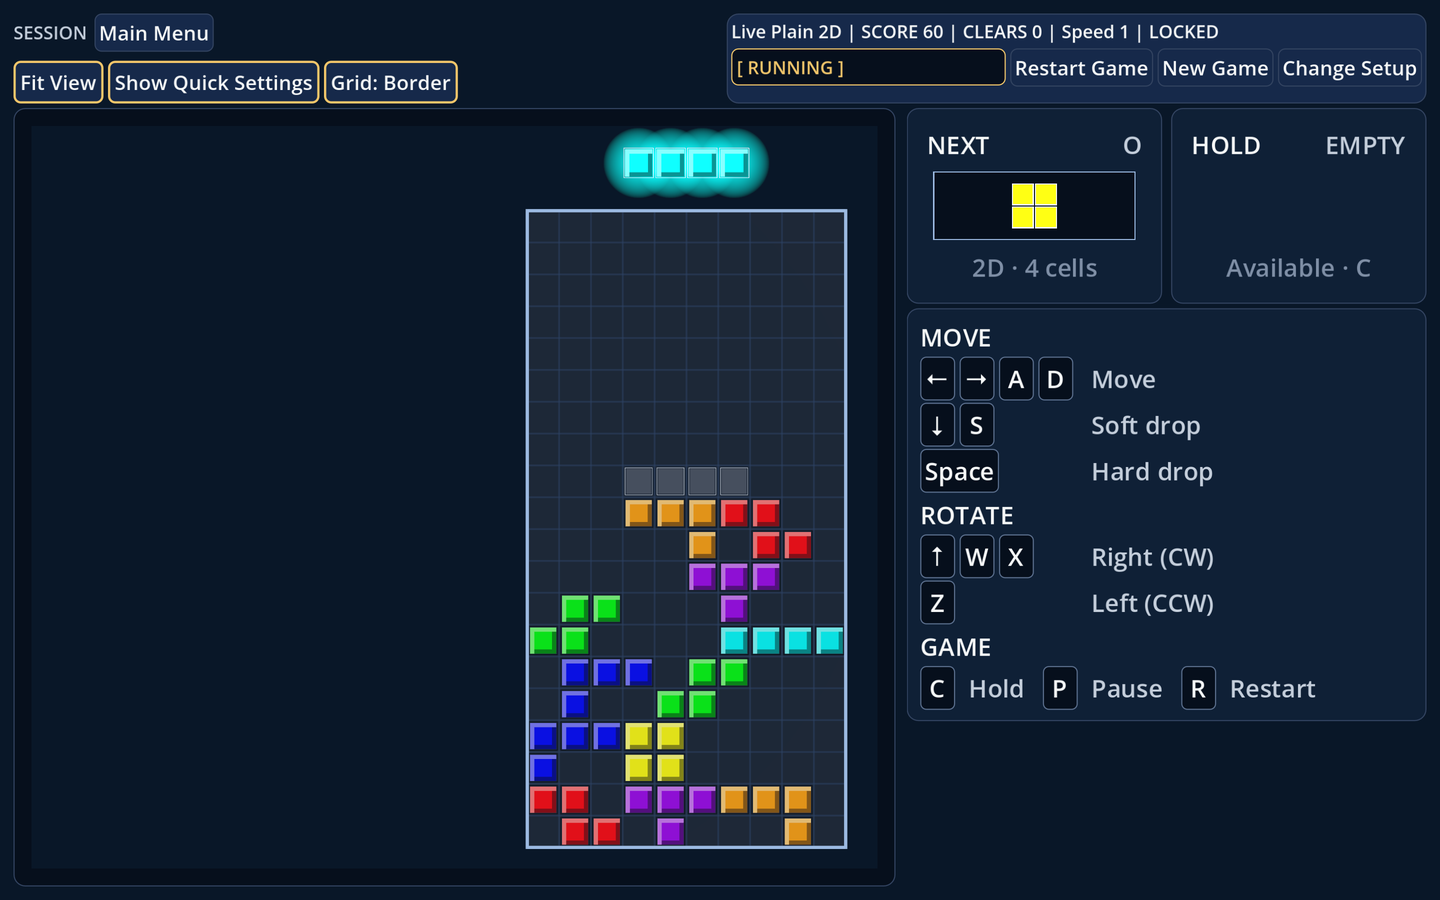
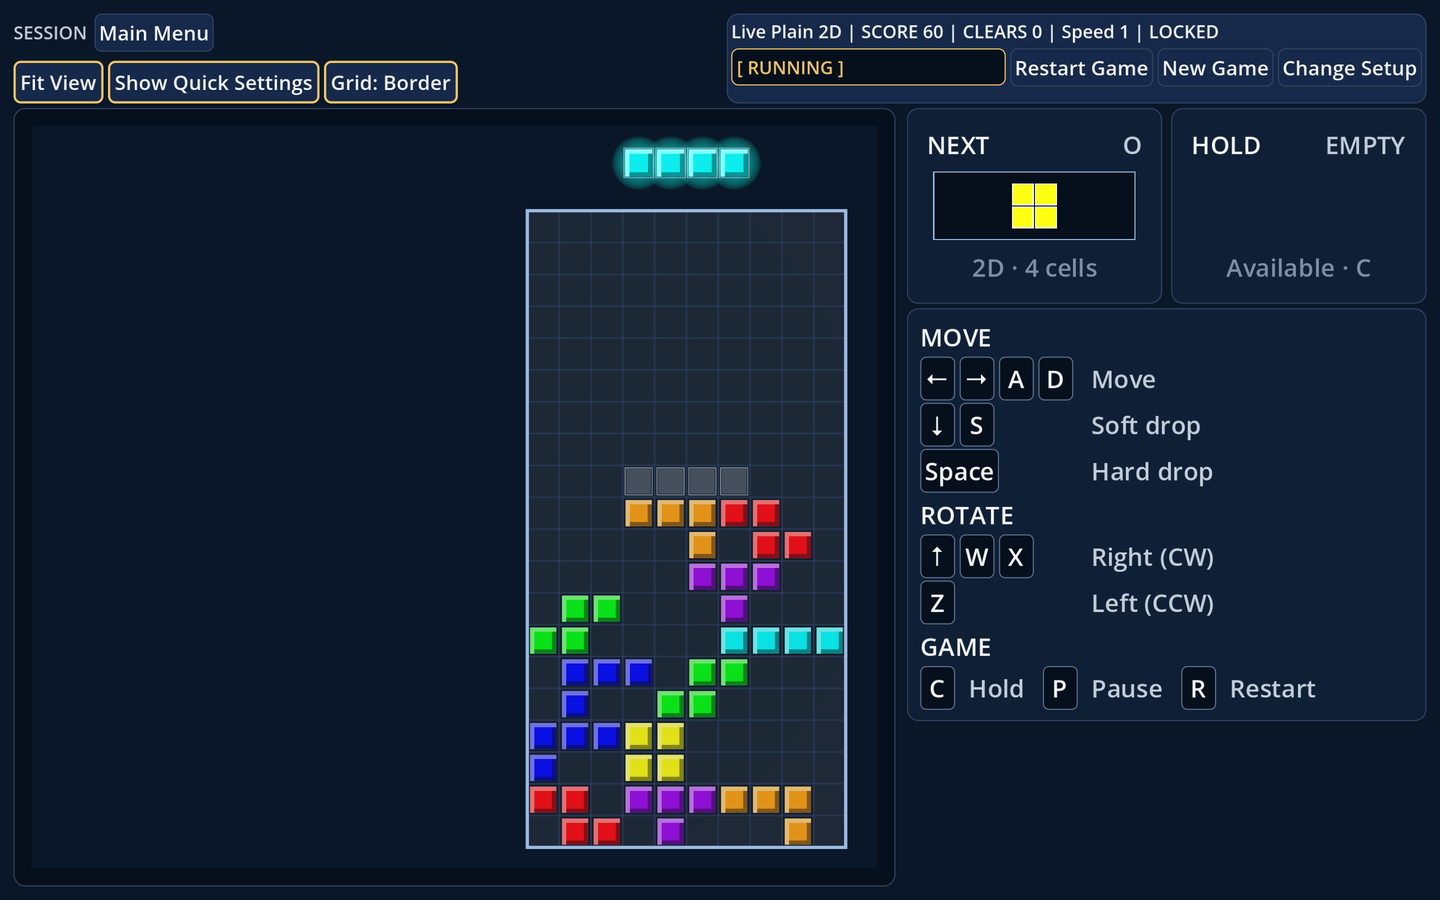
refactor(godot): move luminous shell skin values to config (P2)
The shell skin radii (keycap, control, panel, emphasis) and border lift
move from ShellDesignTokens constants to luminous.shell in
config/graphical_language.json, read through GraphicalLanguageConfig.
The visual_tuning contract now lists the style applier and token file as
consumers, so LUMINOUS_ numeric constants cannot return to either.
Rendering is pixel-identical to fdb248f1 in Live 2D/3D/4D; layout and
typography locks pass unchanged. P2 captures refreshed with the reduced
glow and the d9bfd8bf edge draw order.

Changed region(s): [[0.4062, 0.1244, 0.5312, 0.2178]]

diff --git a/docs/CONFIGURATION_REFERENCE.md b/docs/CONFIGURATION_REFERENCE.md
@@ -2310,10 +2310,10 @@ Parameters:
 - `governance.godot_settings_externalization_contract.statement`: `"Every Godot presentation parameter, its default, exactly-one semanti...` (`string`)
 - `governance.godot_settings_externalization_contract.store_path`: `"godot/Tet4D.Godot/scripts/ui/settings/settings_store.gd"` (`string`)
 - `governance.godot_settings_externalization_contract.visual_tuning.config_path`: `"godot/Tet4D.Godot/config/graphical_language.json"` (`string`)
-- `governance.godot_settings_externalization_contract.visual_tuning.consumer_paths[]`: array[`string`]; examples: `"godot/Tet4D.Godot/scripts/ui/replay_visuals.gd"`, `"godot/Tet4D.Godot/scripts/rendering/cell_renderer.gd"`
+- `governance.godot_settings_externalization_contract.visual_tuning.consumer_paths[]`: array[`string`]; examples: `"godot/Tet4D.Godot/scripts/ui/replay_visuals.gd"`, `"godot/Tet4D.Godot/scripts/rendering/cell_renderer.gd"`, `"godot/Tet4D.Godot/scripts/ui/style/shell_control_style_applier.gd"`
 - `governance.godot_settings_externalization_contract.visual_tuning.forbidden_constant_prefixes[]`: array[`string`]; examples: `"LUMINOUS_"`
 - `governance.godot_settings_externalization_contract.visual_tuning.loader_path`: `"godot/Tet4D.Godot/scripts/ui/style/graphical_language_config.gd"` (`string`)
-- `governance.godot_settings_externalization_contract.visual_tuning.loading_consumer_paths[]`: array[`string`]; examples: `"godot/Tet4D.Godot/scripts/ui/replay_visuals.gd"`
+- `governance.godot_settings_externalization_contract.visual_tuning.loading_consumer_paths[]`: array[`string`]; examples: `"godot/Tet4D.Godot/scripts/ui/replay_visuals.gd"`, `"godot/Tet4D.Godot/scripts/ui/style/shell_control_style_applier.gd"`
 - `governance.godot_settings_externalization_contract.visual_tuning.statement`: `"Graphical-language tuning values (emission, halo, bevel, seam, ghost...` (`string`)
 - `governance.godot_toolchain.assets.linux_x86_64.executable`: `"Godot_v4.7.2-stable_linux.x86_64"` (`string`)
 - `governance.godot_toolchain.assets.linux_x86_64.name`: `"Godot_v4.7.2-stable_linux.x86_64.zip"` (`string`)
@@ -2797,4 +2797,9 @@ Parameters:
 - `luminous.board.locked.face_shades.top`: `1.12` (`float`)
 - `luminous.board.seam.alpha`: `0.85` (`float`)
 - `luminous.board.seam.darken`: `0.35` (`float`)
+- `luminous.shell.border_lift`: `0.12` (`float`)
+- `luminous.shell.radius.control`: `6` (`int`)
+- `luminous.shell.radius.emphasis`: `12` (`int`)
+- `luminous.shell.radius.keycap`: `5` (`int`)
+- `luminous.shell.radius.panel`: `10` (`int`)
 - `schema_version`: `1` (`int`)

diff --git a/docs/plans/graphical_language_adoption.md b/docs/plans/graphical_language_adoption.md
@@ -111,7 +111,8 @@ describes the older "calm instrument" look.
   every StyleBox is made. Under `luminous` (and not High Contrast) corner
   radii step up (panel 4→10, control 3→6, keycap 2→5, emphasis 6→12) and
   `grid.minor`/`grid.major` borders resolve to a soft border (elevated
-  surface lightened by `LUMINOUS_BORDER_LIFT`). Accent, focus and state
+  surface lightened by `luminous.shell.border_lift`). Radii and border lift
+  live in `config/graphical_language.json` (`luminous.shell`). Accent, focus and state
   borders are unchanged.
 - Cockpit cards that use the `ViewportFrame` variation (NEXT, HOLD, control
   strips, 4D basis panel) take `background.panel`; `GameArea` keeps the board
